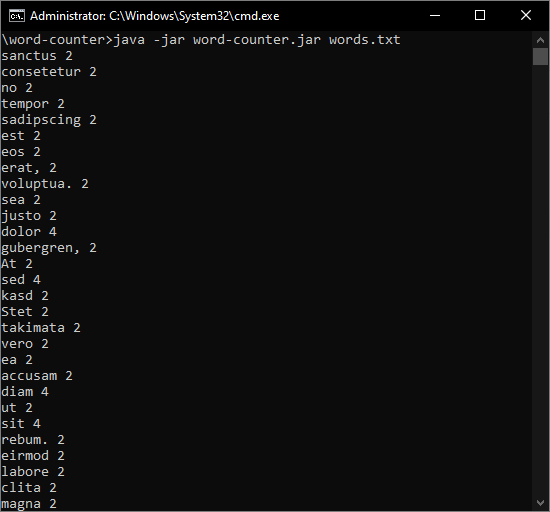
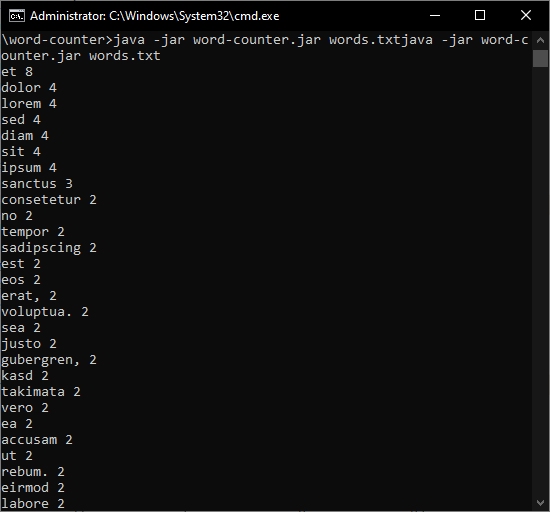
Adding sort and ignore case

Changed region(s): [[0.0, 0.0938, 0.2782, 1.0], [0.7109, 0.0625, 0.9582, 0.0938]]

diff --git a/src/com/erc/Main.java b/src/com/erc/Main.java
@@ -18,12 +18,17 @@ public class Main {
             e.printStackTrace();
         }
 
+
         Arrays.stream(words.split("\n"))
                 .map(l -> l.split(" "))
-                .flatMap(w -> Arrays.stream(w))
+                .flatMap(Arrays::stream)
+                .map(String::toLowerCase)
                 .collect(Collectors.groupingBy(String::toString))
-                .forEach((k, v) -> {
-                    System.out.printf("%s %d%n", k, v.size());
+                .values().stream()
+                .sorted((value1, value2) -> value2.size() - value1.size())
+                .forEach((v) -> {
+                    System.out.printf("%s %d%n", v.get(0), v.size());
                 });
+        ;
     }
 }
